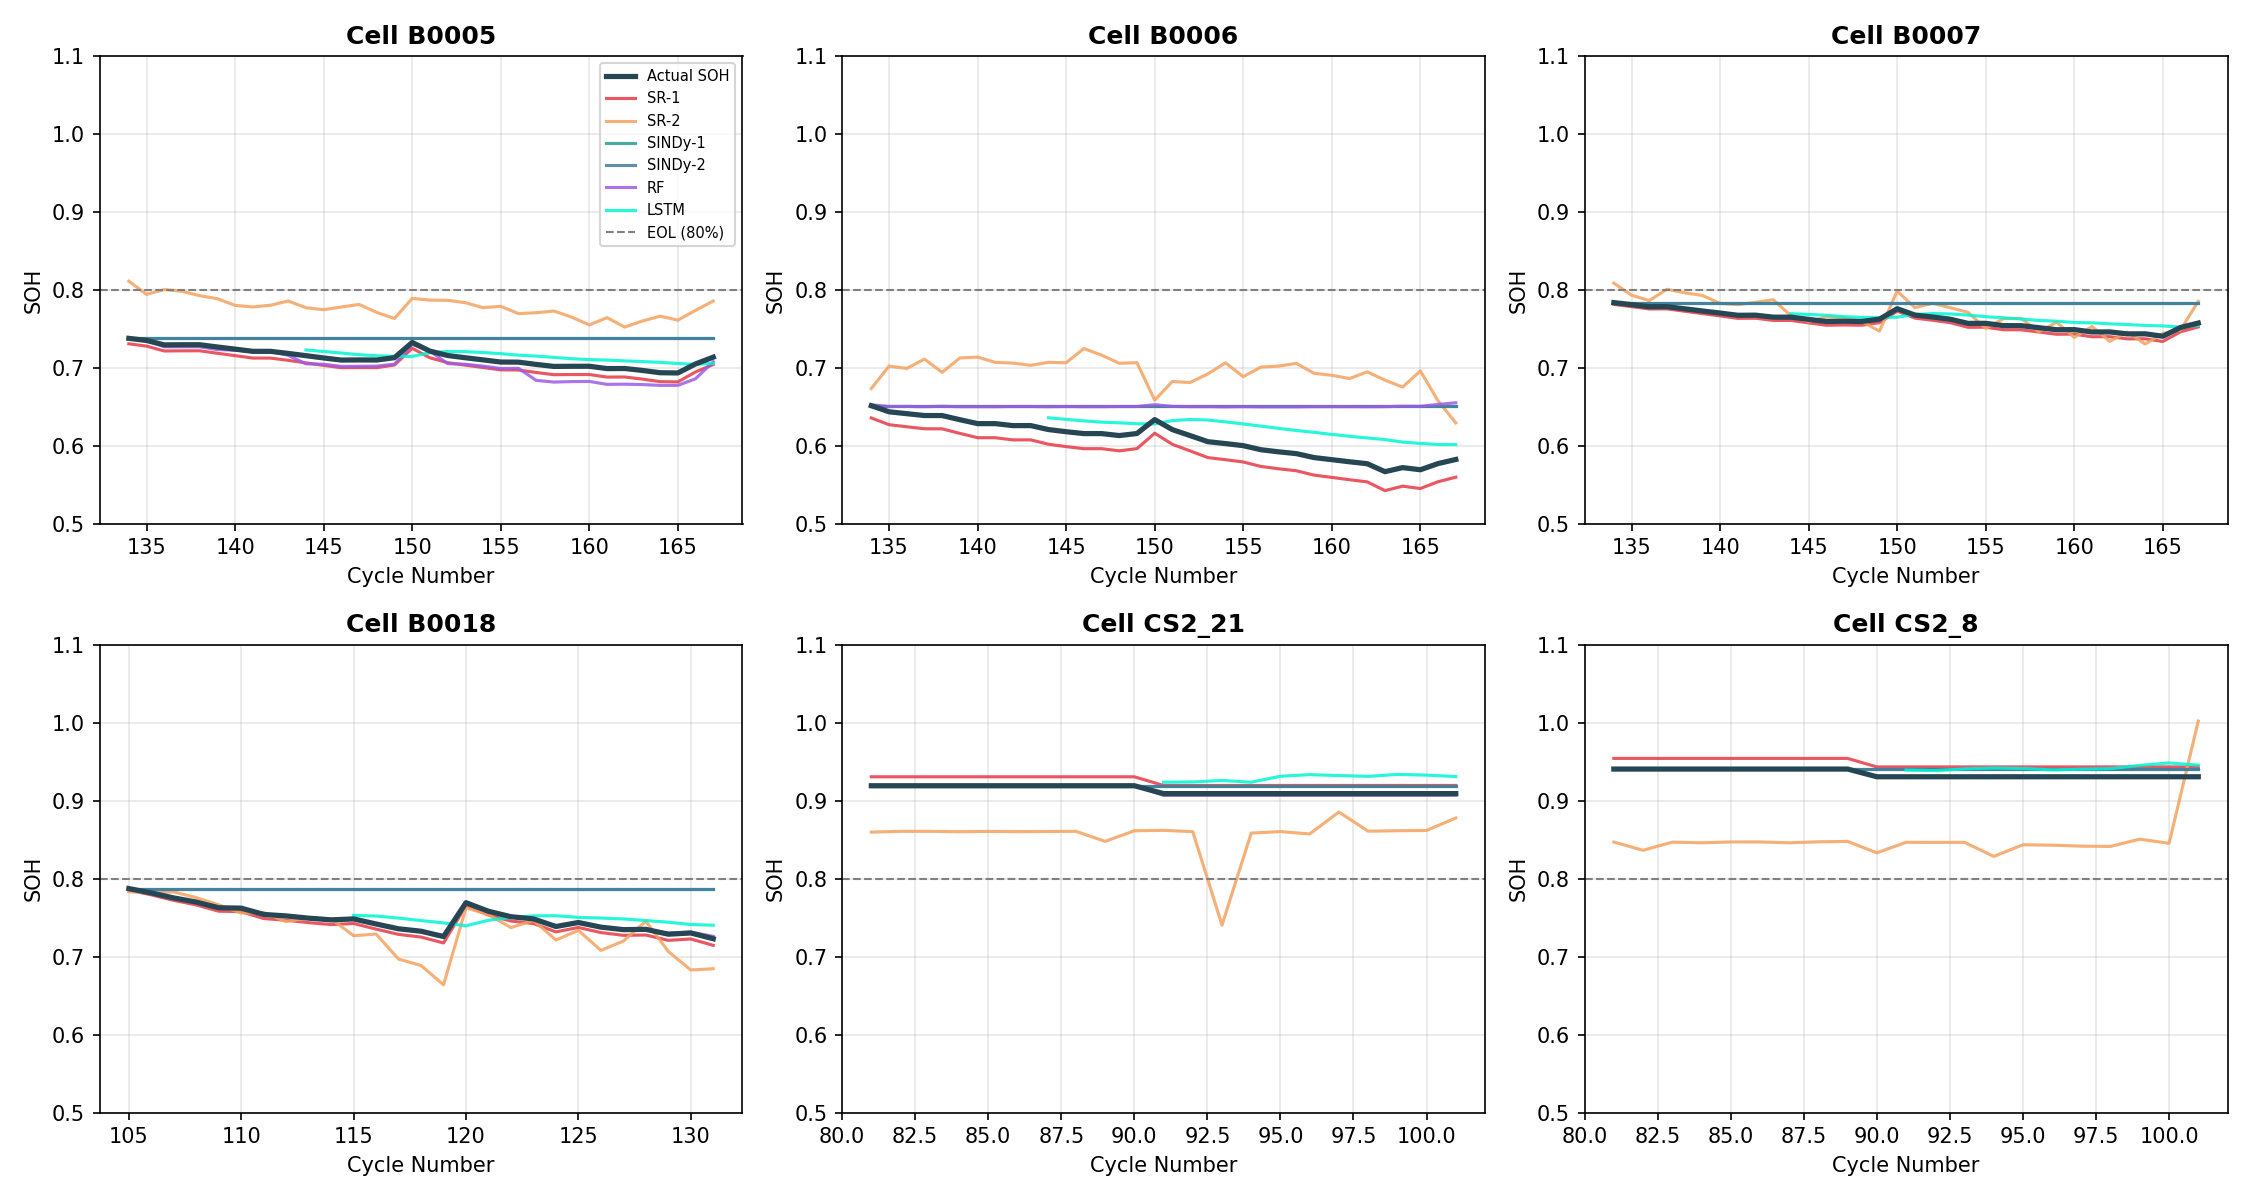
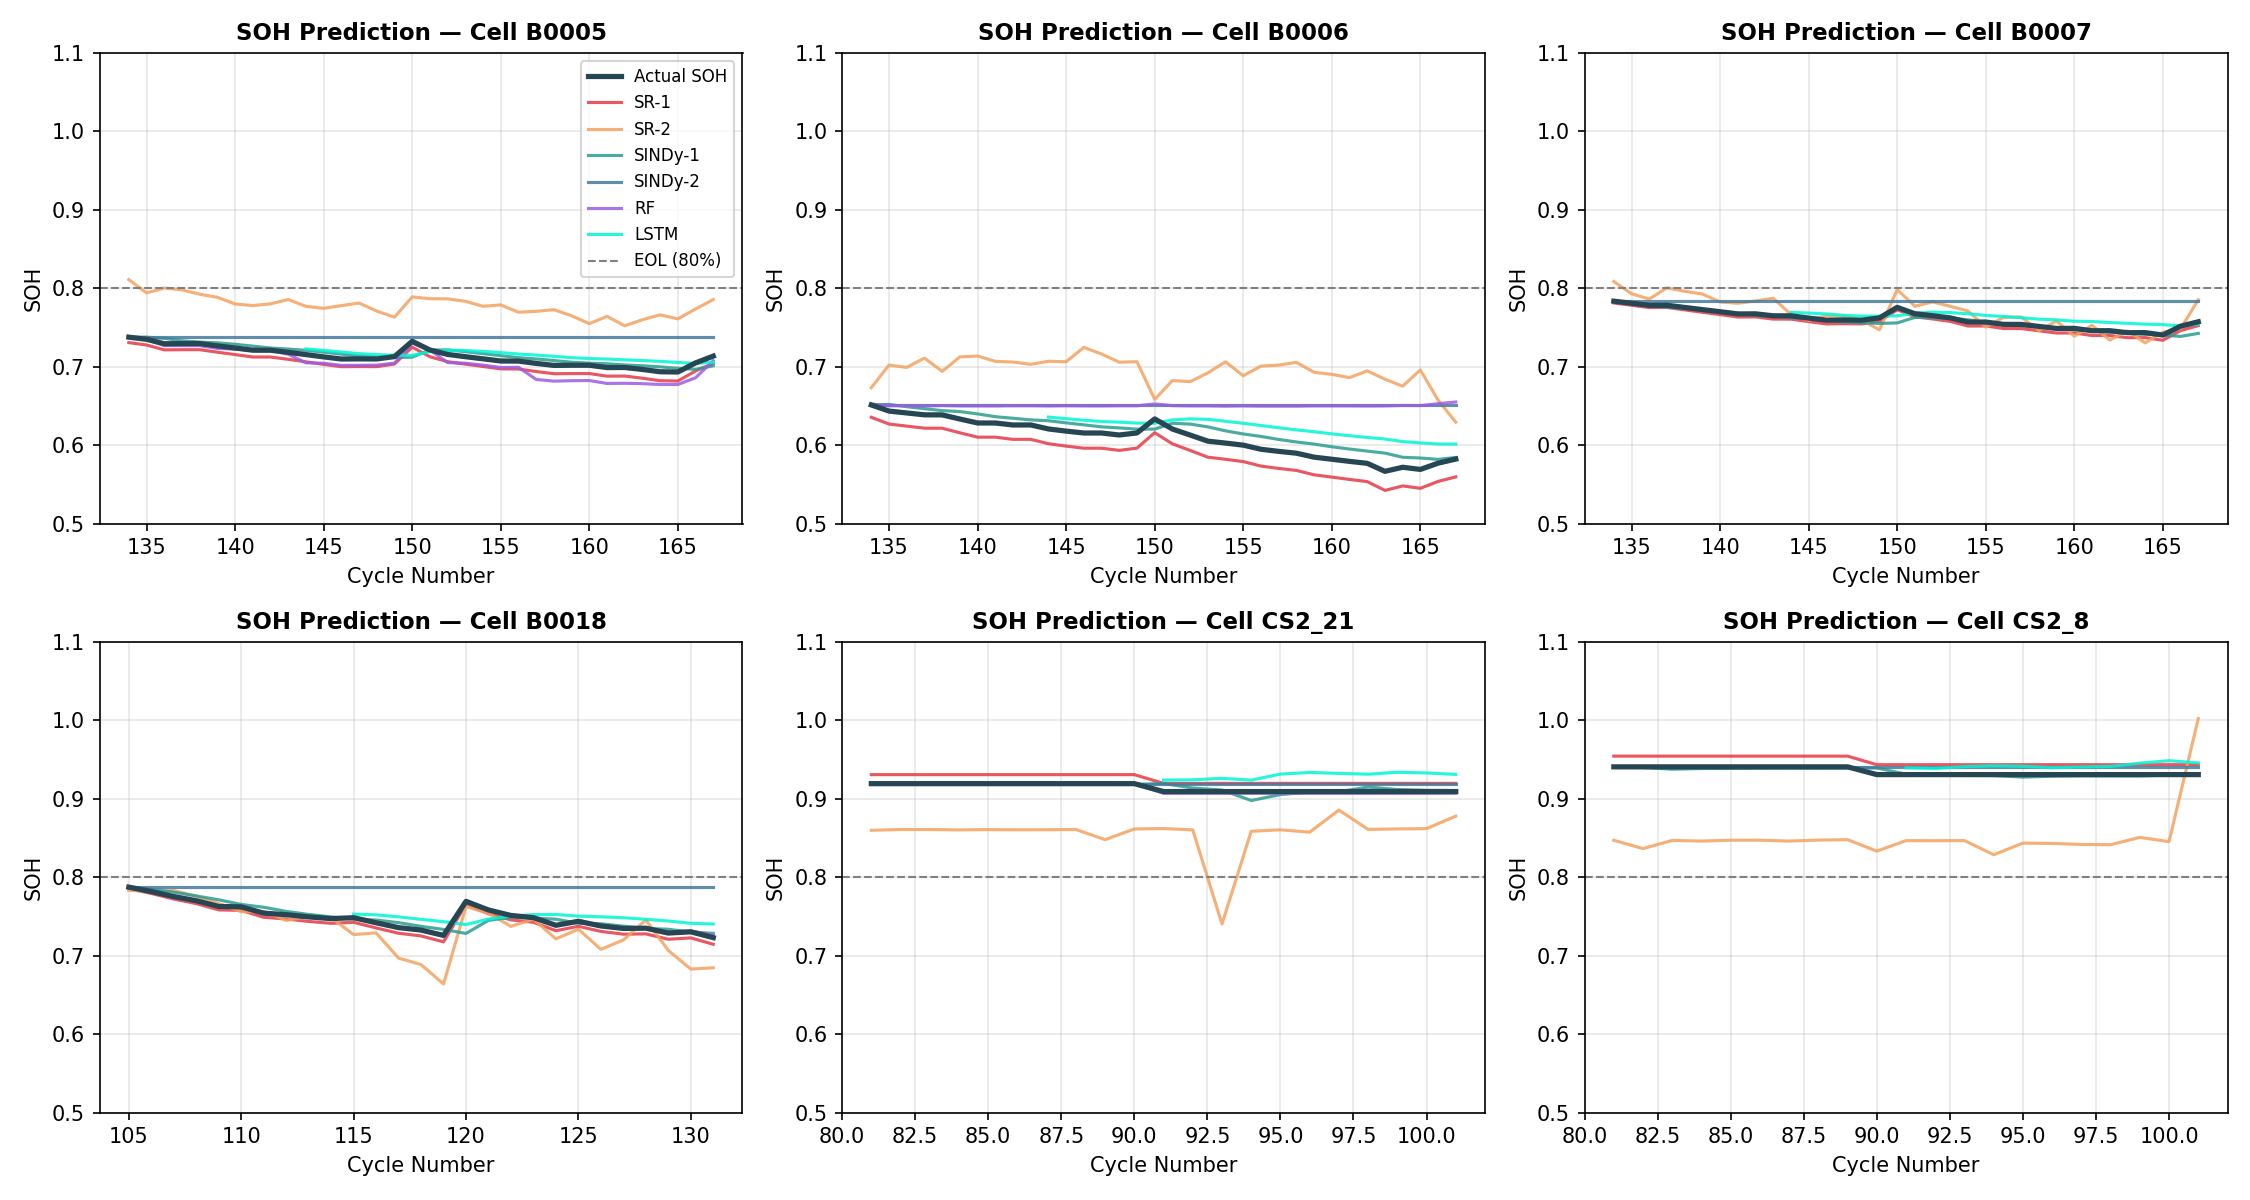
Fix SINDy direct prediction: float() conversion bug + missing dt scaling restored R2=0.9951

diff --git a/battery_symbolic_sindy.py b/battery_symbolic_sindy.py
@@ -189,36 +189,35 @@ def prepare_sindy_data(df):
 
 
 def _sindy_direct_predict(model, test_df, control_cols):
-    """Predict SOH directly from SINDy feature library (no ODE integration).
+    """Predict SOH using explicit Euler integration of the SINDy equation.
     
-    This replaces model.simulate() with a stable point-wise algebraic
-    evaluation: SOH_pred[t] = SOH[t-1] + dt * (coeff @ feature_library(SOH[t-1], u[t-1]))
-    This is deterministic and numerically stable across all machines.
+    Uses the same math as model.simulate() but with a fixed-step Euler scheme
+    that is deterministic across all machines (no adaptive RK45 solver).
+    
+    SOH_pred[t] = SOH_pred[t-1] + dt * f(SOH_pred[t-1], u[t-1])
+    where f = coefficients @ feature_library(state, control)
     """
     all_true, all_pred = [], []
-    coeffs = model.coefficients()  # shape (1, n_features)
+    coeffs = model.coefficients()  # shape (1, n_library_features)
     lib = model.feature_library
 
     for cell_id, grp in test_df.groupby('cell_id'):
         grp = grp.sort_values('cycle_number').reset_index(drop=True)
         u = grp[control_cols].ffill().bfill().values
         soh_true = grp['SOH'].values
+        t = grp['cycle_number'].values.astype(float)
         n = len(soh_true)
 
         soh_pred = np.zeros(n)
         soh_pred[0] = soh_true[0]  # start from known true initial SOH
 
         for i in range(1, n):
-            # Build state-control matrix for this timestep
-            x_state = np.array([[soh_pred[i - 1]]])
-            u_state = u[i - 1:i]
-            try:
-                xu = np.hstack([x_state, u_state])
-                phi = lib.transform(xu)  # evaluate feature library
-                dsoh_dt = float(coeffs @ phi.T)
-                soh_pred[i] = soh_pred[i - 1] + dsoh_dt
-            except Exception:
-                soh_pred[i] = soh_pred[i - 1]  # hold last value on failure
+            dt = t[i] - t[i - 1]  # time step (in cycles)
+            # Build [state, control] row vector
+            xu = np.hstack([[soh_pred[i - 1]], u[i - 1]]).reshape(1, -1)
+            phi = lib.transform(xu)  # evaluate polynomial feature library
+            dsoh_dt = (coeffs @ phi.T)[0, 0]  # scalar: dSOH/dt
+            soh_pred[i] = soh_pred[i - 1] + dsoh_dt * dt
 
         soh_pred = soh_pred.clip(0.0, 1.15)
         all_true.extend(soh_true)
